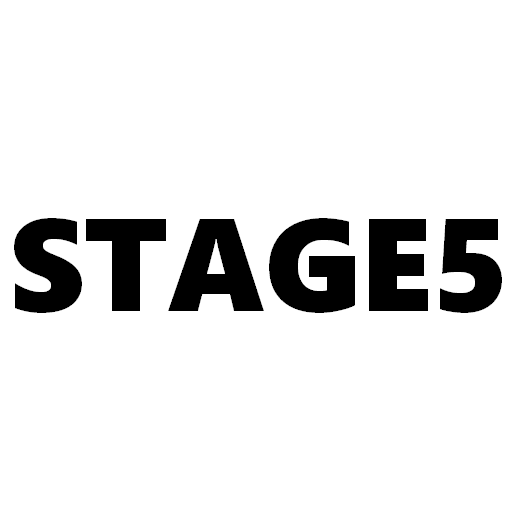
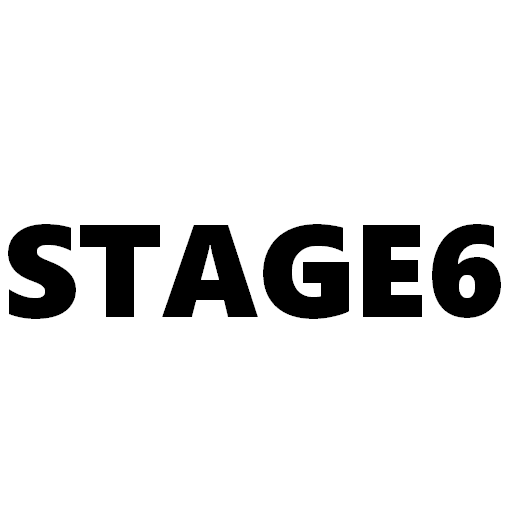
はい

diff --git a/DirectXGame/StageSelectScene.h b/DirectXGame/StageSelectScene.h
@@ -22,13 +22,14 @@ private:
 
 	bool isFinished_ = false;
 
-	// 1~3のステージを選択
+	// タイトルとステージ1～10を選択
 	int selectedStageNumber_ = 1;
 	int previousStageNumber_ = 1;
 	bool isAnimating_ = false;
 	float animationTime_ = 0.0f;
 	static inline const int kMinStageNumber = 0;
-	static inline const int kMaxStageNumber = 6;
+	static inline const int kMaxStageNumber = 10;
+	static inline const int kMaxPlayableStageNumber = 6;
 	static inline const int kStageSpriteCount = kMaxStageNumber + 1;
 	std::array<uint32_t, kStageSpriteCount> stageTextureHandles_{};
 	std::array<KamataEngine::Sprite*, kStageSpriteCount> stageSprites_{};

diff --git a/DirectXGame/StageSelectScene.cpp b/DirectXGame/StageSelectScene.cpp
@@ -89,8 +89,8 @@ void StageSelectScene::Update() {
 
 	UpdateStageSpriteLayout();
 
-	// 決定
-	if (!isAnimating_ && Input::GetInstance()->TriggerKey(DIK_SPACE)) {
+	// タイトルと実装済みのステージ1～6だけ決定できる
+	if (!isAnimating_ && selectedStageNumber_ <= kMaxPlayableStageNumber && Input::GetInstance()->TriggerKey(DIK_SPACE)) {
 		isFinished_ = true;
 	}
 }
